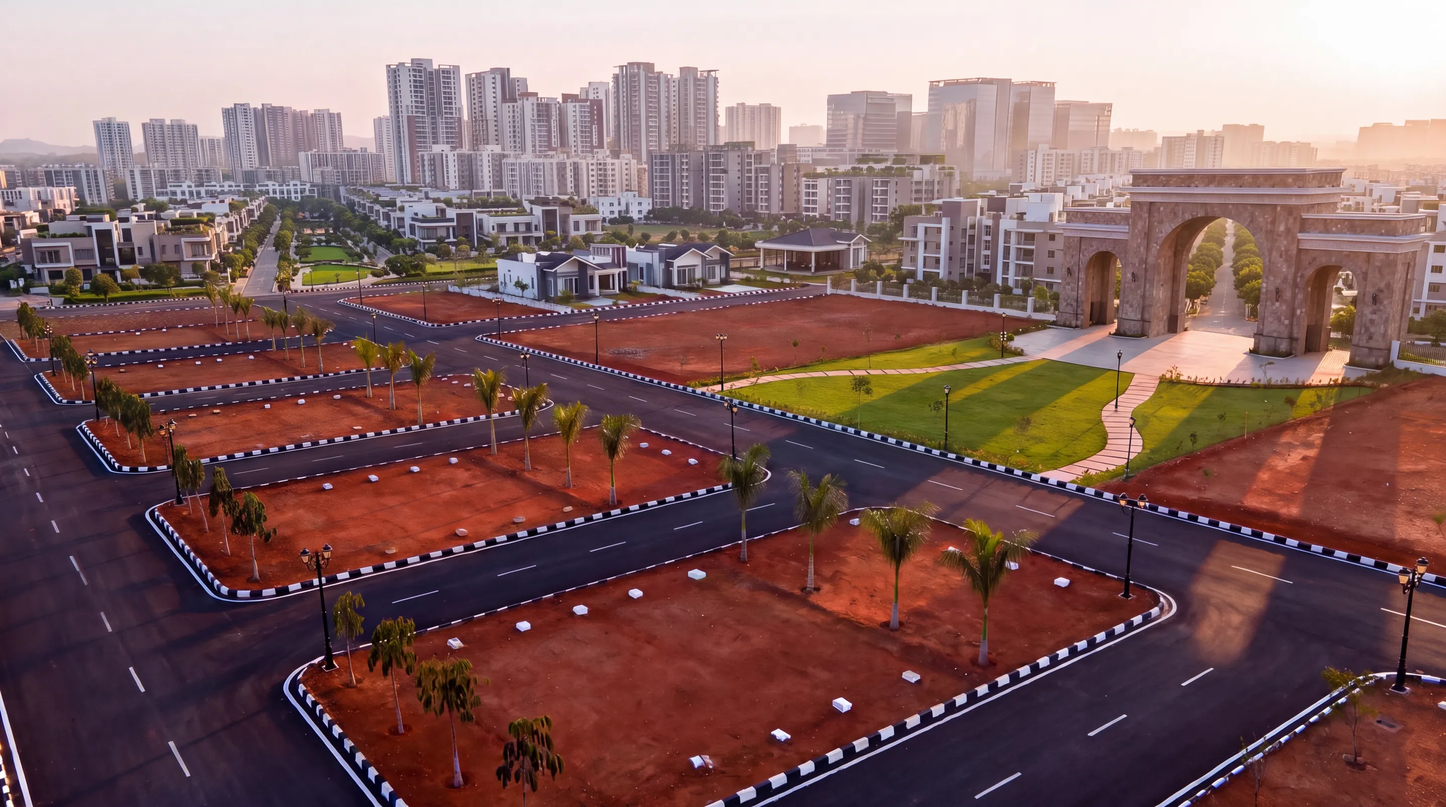
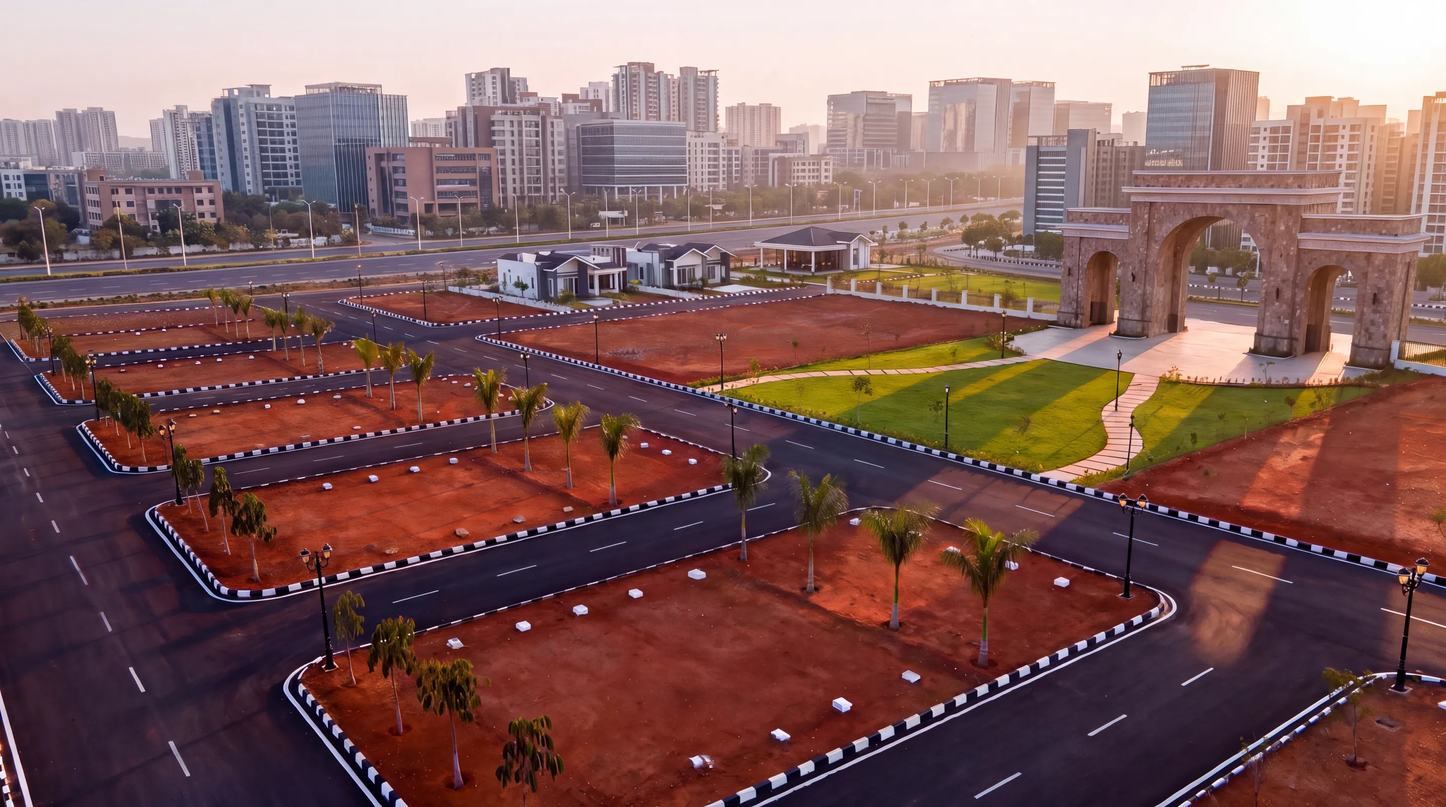
Projects hero: the client's pick, a city road and offices behind the layout
The client chose the "six-lane road and office district" background (c4).
A targeted edit also fills the scrub and bare field behind and through the
entrance arch with office towers and apartments, so no forest is left. The
layout, villas, clubhouse and arch are unchanged.

diff --git a/website/src/assets/images/index.ts b/website/src/assets/images/index.ts
@@ -3,7 +3,7 @@
 // gcvi-layout-copy is page 2 of the client's layout PDF (the HMDA layout copy). touch-villa is the live home's own
 // Get in touch picture (greaterinfraprojects.in/images/img-.png, re-encoded). projects-hero is a kie.ai Seedream render
 // whose boulder hills and scrub were replaced by developed city in three nano-banana-2 edits (source in
-// website/assets-src/kie/projects-hero-city-c1-r2.jpg; the original is projects-hero-1.jpeg).
+// website/assets-src/kie/projects-hero-city-c4-r2.jpg; the original is projects-hero-1.jpeg).
 import anniversaryCollage from "./anniversary-collage.webp";
 import avenueRoad from "./avenue-road.webp";
 import clubhousePool from "./clubhouse-pool.webp";
